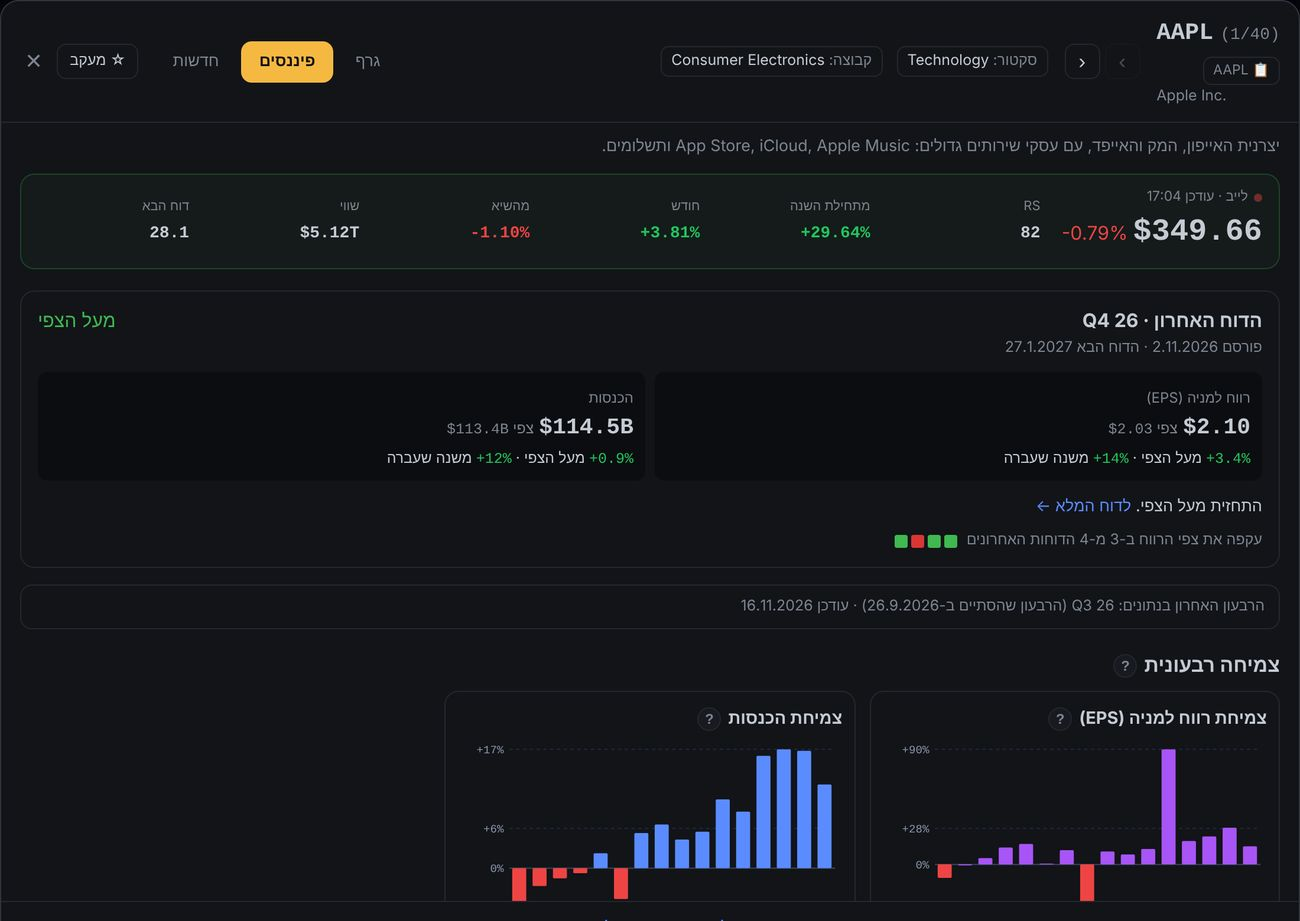
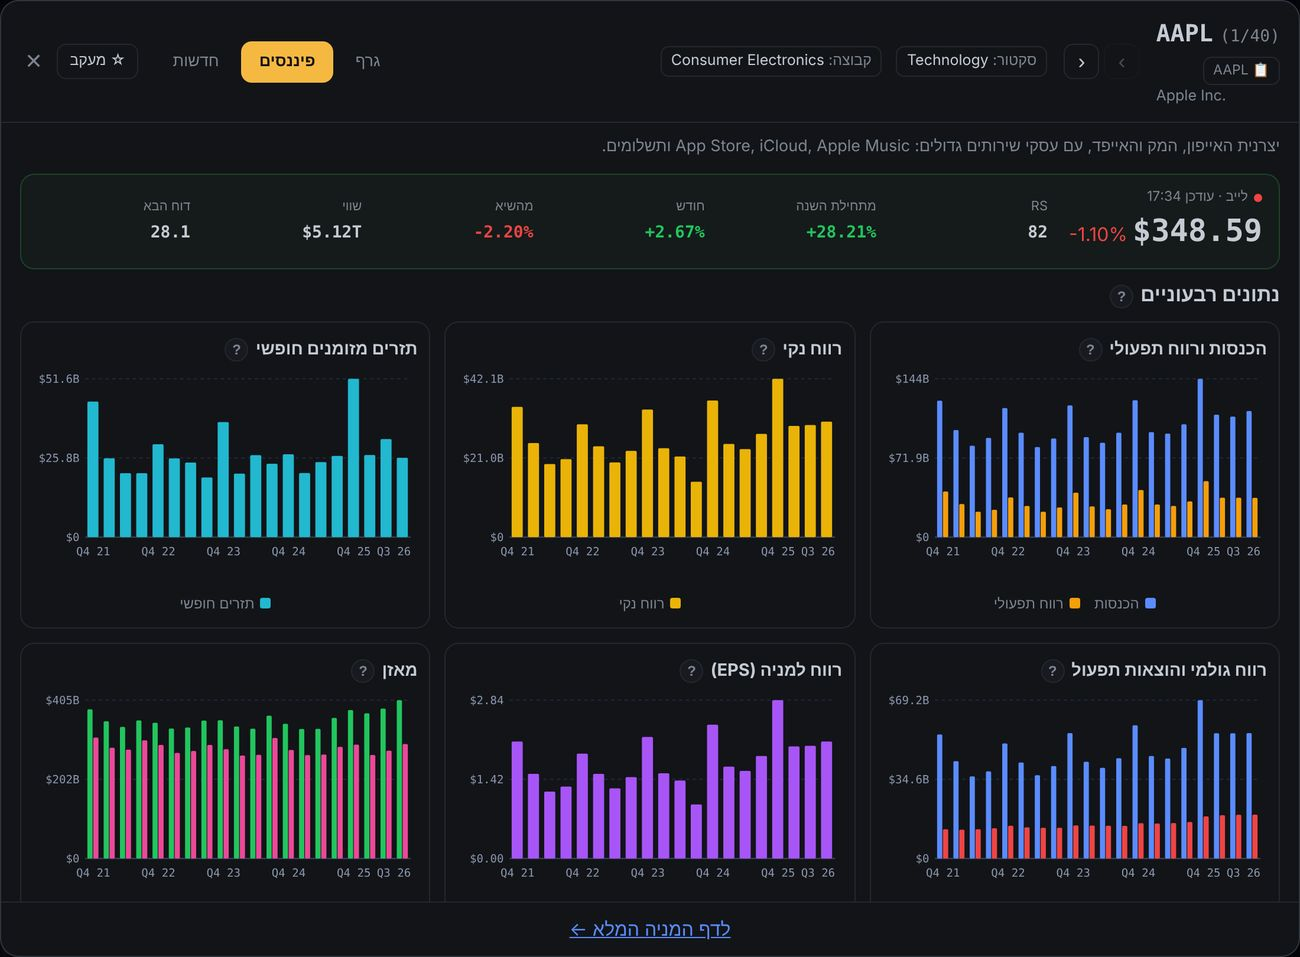
Landing page: phones show the computer screenshots (whole, tap to enlarge), phone screenshots removed; stock-ID section shows the quarterly-data charts
Claude-Session: https://claude.ai/code/session_01AbBC8Wurhtt7UEBPftx2T7

diff --git a/join.html b/join.html
@@ -36,6 +36,9 @@ h1{font-size:58px;line-height:1.12;font-weight:800;letter-spacing:-.025em;margin
 .bar{display:flex;align-items:center;gap:7px;padding:11px 14px;border-bottom:1px solid var(--line);direction:ltr}.bar i{width:10px;height:10px;border-radius:50%;background:#262d38}.bar span{margin:0 auto;font-size:12px;color:#6b7482;background:#0a0d12;border:1px solid var(--line);border-radius:7px;padding:3px 40px}
 .frame img{display:block;width:100%;height:auto}.frame.h img{max-height:520px;object-fit:cover;object-position:top}
 .fade{position:absolute;inset:auto 0 0 0;height:140px;background:linear-gradient(transparent,var(--bg))}.fade.s{height:70px;background:linear-gradient(transparent,var(--panel))}
+/* the screenshots are the computer view; on phones a tap opens the full-size image */
+.zoom{display:block;pointer-events:none}
+.frame.ph,.swt{display:none}.zoom{display:block;pointer-events:none}
 .stats{display:grid;grid-template-columns:repeat(4,1fr);border:1px solid var(--line);border-radius:14px;margin:56px 0 0;overflow:hidden;text-align:right}
 .stats div{padding:22px 24px;border-inline-start:1px solid var(--line)}.stats div:first-child{border:0}.stats b{display:block;font-size:30px;font-weight:700}.stats small{color:var(--muted);font-size:14px}
 .sec{padding:110px 0 0}.lbl{color:var(--g2);font-size:13px;font-weight:700;letter-spacing:.08em}.h2{font-size:40px;font-weight:800;letter-spacing:-.02em;margin:10px 0 12px;line-height:1.15}.sub{color:var(--muted);font-size:18px;line-height:1.7;max-width:620px;margin:0}
@@ -55,8 +58,7 @@ footer{margin-top:90px;border-top:1px solid var(--line);padding:30px 0 44px;colo
 @media(max-width:860px){.wrap{padding:0 18px}h1{font-size:36px}.lead{font-size:17px}.cta{flex-direction:column;align-items:stretch}.btn{justify-content:center}.nl{gap:0}.nl a:not(.btn){display:none}.logo small{display:none}
 .stats{grid-template-columns:1fr 1fr}.stats div:nth-child(3){border:0;border-top:1px solid var(--line)}.stats div:nth-child(4){border-top:1px solid var(--line)}.stats div{padding:16px 18px}.stats b{font-size:24px}
 .feat,.feat.r{grid-template-columns:1fr;gap:26px;margin-top:64px}.feat.r .ft{order:0}.h2,.join h2{font-size:30px}.all{margin-top:80px}.allg{grid-template-columns:1fr;gap:12px;margin-top:24px}.join{padding:36px 22px;margin-top:80px}.sec{padding-top:80px}.hero{padding-top:40px}.frame{margin-top:40px}.bar span{padding:3px 18px}
-/* phones get their own screenshots (lp/m-*.jpg, taken at phone width), shown at real size */
-.frame.h img{max-height:460px}.feat .frame img{max-height:440px}.frame{max-width:420px;margin-inline:auto}.feat .frame{margin:0 auto;width:100%}}
+.frame.h img,.feat .frame img{max-height:none}.fade{height:56px}.fade.s{height:36px}.zoom{pointer-events:auto}}
 @media(prefers-reduced-motion:reduce){html{scroll-behavior:auto}}
 </style>
 </head>
@@ -74,7 +76,7 @@ footer{margin-top:90px;border-top:1px solid var(--line);padding:30px 0 44px;colo
   <p class="lead"><b>מזהים את מובילות השוק ומבינים לאן הכסף זורם.</b> תעשיות וסקטורים, רוחב שוק, דוחות רבעוניים וחדשות על המניות שלך, מתעדכנים כל כמה דקות במסחר ובכל ערב אחרי הסגירה.</p>
   <div class="cta"><a class="btn p" href="/join" data-join><svg viewBox="0 0 48 48" aria-hidden="true"><path fill="#fff" d="M44.5 20H24v8.5h11.8C34.7 33.9 30.1 37 24 37c-7.2 0-13-5.8-13-13s5.8-13 13-13c3.1 0 5.9 1.1 8.1 2.9l6.4-6.4C34.6 4.1 29.6 2 24 2 11.8 2 2 11.8 2 24s9.8 22 22 22c11 0 21-8 21-22 0-1.3-.2-2.7-.5-4z"/></svg>הרשמה חינם עם Google</a><a class="btn s" href="#tools">מה יש באתר</a></div>
   <div class="fine">ללא תשלום בתקופת ההשקה · מידע עובדתי בלבד, לא ייעוץ השקעות</div>
-  <div class="frame h"><div class="bar" aria-hidden="true"><i></i><i></i><i></i><span>wallstreeter.co.il</span></div><picture><source media="(max-width:860px)" srcset="lp/m-stocks.jpg" width="716" height="1150"><img src="lp/stocks.jpg" width="1500" height="1053" alt="טבלת המניות באתר: מחיר, שינוי יומי, חודשי ומתחילת השנה, דירוג RS ושווי שוק"></picture><div class="fade"></div></div>
+  <div class="frame h"><div class="bar" aria-hidden="true"><i></i><i></i><i></i><span>wallstreeter.co.il</span></div><a class="zoom" href="lp/stocks.jpg" target="_blank" rel="noopener" aria-label="הגדלת צילום המסך מהמחשב"><img src="lp/stocks.jpg" width="1500" height="1053" alt="טבלת המניות באתר: מחיר, שינוי יומי, חודשי ומתחילת השנה, דירוג RS ושווי שוק"></a><div class="fade"></div></div>
   <div class="stats"><div><b>כ-2,000</b><small>מניות מעל מיליארד דולר</small></div><div><b class="num">120+</b><small>תעשיות מדורגות</small></div><div><b>5 דק׳</b><small>עדכון מחירים במסחר</small></div><div><b class="num">1,700+</b><small>דוחות רבעוניים במאגר</small></div></div>
 </section>
 
@@ -82,19 +84,19 @@ footer{margin-top:90px;border-top:1px solid var(--line);padding:30px 0 44px;colo
 
   <div class="feat"><div class="ft"><span class="n">01</span><h3>תעשיות וסקטורים</h3><p>דירוג של יותר מ-120 תעשיות ו-11 סקטורים, מהיום ועד שנה, כדי לראות לאן הכסף זורם.</p>
     <ul><li>כל תעשייה נפתחת למניות שמובילות אותה</li><li>העתקת כל הסימולים של תעשייה בלחיצה</li><li>רוטציה בין סקטורים לאורך זמן</li></ul></div>
-    <div class="frame"><div class="bar" aria-hidden="true"><i></i><i></i><i></i></div><picture><source media="(max-width:860px)" srcset="lp/m-themes.jpg" width="716" height="1000"><img loading="lazy" src="lp/themes.jpg" width="1300" height="699" alt="טבלת התעשיות: תשואה יומית, חודשית ושנתית ודירוג RS לכל תעשייה"></picture><div class="fade s"></div></div></div>
+    <div class="frame"><div class="bar" aria-hidden="true"><i></i><i></i><i></i></div><a class="zoom" href="lp/themes.jpg" target="_blank" rel="noopener" aria-label="הגדלת צילום המסך מהמחשב"><img loading="lazy" src="lp/themes.jpg" width="1300" height="699" alt="טבלת התעשיות: תשואה יומית, חודשית ושנתית ודירוג RS לכל תעשייה"></a><div class="fade s"></div></div></div>
 
   <div class="feat r"><div class="ft"><span class="n">02</span><h3>תעודת זהות לכל מניה</h3><p>לחיצה על מניה פותחת את כל המידע עליה במקום אחד, בלי לעזוב את הרשימה.</p>
-    <ul><li>גרף נרות עם ממוצעים נעים</li><li>הדוח האחרון מול הצפי וצמיחה רבעונית</li><li>חדשות על המניה, בעברית</li></ul></div>
-    <div class="frame"><div class="bar" aria-hidden="true"><i></i><i></i><i></i></div><picture><source media="(max-width:860px)" srcset="lp/m-qv.jpg" width="716" height="1100"><img loading="lazy" src="lp/qv.jpg" width="1300" height="921" alt="תעודת זהות של מניה: מחיר, הדוח האחרון מול הצפי וגרפי צמיחה רבעונית"></picture><div class="fade s"></div></div></div>
+    <ul><li>גרף נרות עם ממוצעים נעים</li><li>נתונים רבעוניים בגרפים: הכנסות, רווח ותזרים</li><li>הדוח האחרון מול הצפי וצמיחה רבעונית</li><li>חדשות על המניה, בעברית</li></ul></div>
+    <div class="frame"><div class="bar" aria-hidden="true"><i></i><i></i><i></i></div><a class="zoom" href="lp/qv.jpg" target="_blank" rel="noopener" aria-label="הגדלת צילום המסך מהמחשב"><img loading="lazy" src="lp/qv.jpg" width="1300" height="957" alt="תעודת זהות של מניה: מחיר ונתונים רבעוניים בגרפים – הכנסות, רווח ותזרים מזומנים"></a><div class="fade s"></div></div></div>
 
   <div class="feat"><div class="ft"><span class="n">03</span><h3>רוחב שוק</h3><p>הבריאות של השוק, לא רק המדד: כמה מניות עולות ויורדות, ומה מצבן מול הממוצעים.</p>
     <ul><li>שיאים ושפלים של 52 שבועות</li><li>אחוז המניות מעל ממוצע 50 ו-200</li><li>היסטוריה יומית</li></ul></div>
-    <div class="frame"><div class="bar" aria-hidden="true"><i></i><i></i><i></i></div><picture><source media="(max-width:860px)" srcset="lp/m-breadth.jpg" width="716" height="726"><img loading="lazy" src="lp/breadth.jpg" width="1300" height="990" alt="רוחב שוק: מספר המניות העולות והיורדות ואחוז המניות מעל הממוצעים"></picture><div class="fade s"></div></div></div>
+    <div class="frame"><div class="bar" aria-hidden="true"><i></i><i></i><i></i></div><a class="zoom" href="lp/breadth.jpg" target="_blank" rel="noopener" aria-label="הגדלת צילום המסך מהמחשב"><img loading="lazy" src="lp/breadth.jpg" width="1300" height="990" alt="רוחב שוק: מספר המניות העולות והיורדות ואחוז המניות מעל הממוצעים"></a><div class="fade s"></div></div></div>
 
   <div class="feat r"><div class="ft"><span class="n">04</span><h3>דוחות רבעוניים</h3><p>עונת דוחות שלמה במסך אחד, עם תגובת המניה ומה החברה צופה להמשך.</p>
     <ul><li>רווח למניה והכנסות מול הצפי</li><li>לוח הדוחות של השבוע</li><li>מאגר של הדוחות האחרונים</li></ul></div>
-    <div class="frame"><div class="bar" aria-hidden="true"><i></i><i></i><i></i></div><picture><source media="(max-width:860px)" srcset="lp/m-earnings.jpg" width="716" height="1000"><img loading="lazy" src="lp/earnings.jpg" width="1300" height="760" alt="מאגר הדוחות: רווח למניה והכנסות מול הצפי לכל חברה"></picture><div class="fade s"></div></div></div>
+    <div class="frame"><div class="bar" aria-hidden="true"><i></i><i></i><i></i></div><a class="zoom" href="lp/earnings.jpg" target="_blank" rel="noopener" aria-label="הגדלת צילום המסך מהמחשב"><img loading="lazy" src="lp/earnings.jpg" width="1300" height="760" alt="מאגר הדוחות: רווח למניה והכנסות מול הצפי לכל חברה"></a><div class="fade s"></div></div></div>
 
   <div class="all" id="all"><div class="lbl">כל הכלים באתר</div><h2 class="h2">17 כלים, חשבון אחד.</h2>
   <div class="allg">
